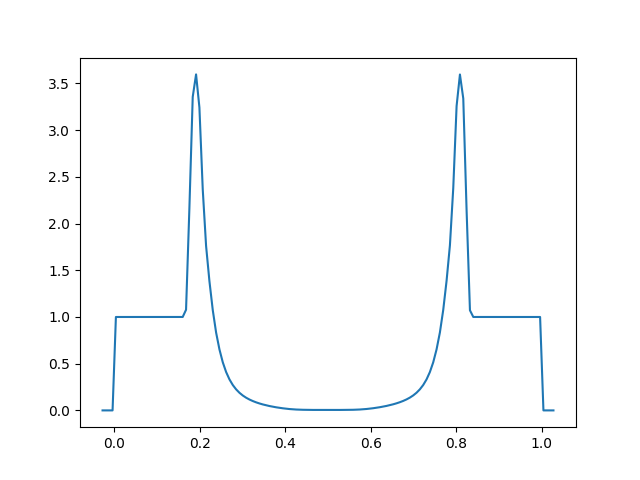
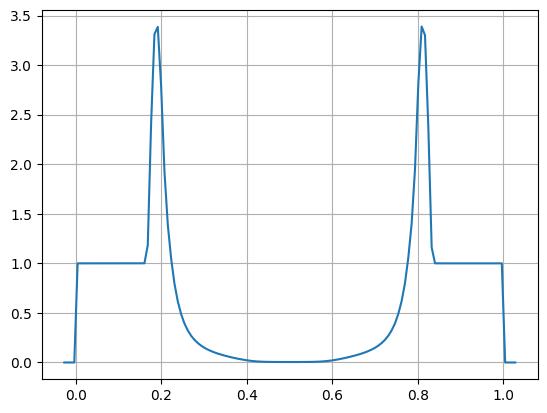
update the "Reading and plotting manually" portion of docs (#304)
this adds how to exclude ghost cells.

diff --git a/docs/source/output.rst b/docs/source/output.rst
@@ -42,20 +42,41 @@ Reading and plotting manually
 pyro output data can be read using the :func:`util.io_pyro.read <pyro.util.io_pyro.read>` method. The following
 sequence (done in a python session) reads in stored data (from the
 compressible Sedov problem) and plots data falling on a line in the x
-direction through the y-center of the domain (note: this will include
-the ghost cells).
+direction through the y-center of the domain.  The return value of
+``read`` is a ``Simulation`` object.
+
 
 .. code-block:: python
 
    import matplotlib.pyplot as plt
    import pyro.util.io_pyro as io
-   sim = io.read("sedov_unsplit_0000.h5")
+
+   sim = io.read("sedov_unsplit_0290.h5")
    dens = sim.cc_data.get_var("density")
-   plt.plot(dens.g.x, dens[:,dens.g.ny//2])
-   plt.show()
+
+   fig, ax = plt.subplots()
+   ax.plot(dens.g.x, dens[:,dens.g.qy//2])
+   ax.grid()
 
 .. image:: manual_plot.png
    :align: center
 
-Note: this includes the ghost cells, by default, seen as the small
-regions of zeros on the left and right.
+.. note::
+
+   This includes the ghost cells, by default, seen as the small
+   regions of zeros on the left and right.  The total number of cells,
+   including ghost cells in the y-direction is ``qy``, which is why
+   we use that in our slice.
+
+If we wanted to exclude the ghost cells, then we could use the ``.v()`` method
+on the density array to exclude the ghost cells, and then manually index ``g.x``
+to just include the valid part of the domain:
+
+.. code:: python
+
+   ax.plot(dens.g.x[g.ilo:g.ihi+1], dens.v()[:, dens.g.ny//2])
+
+.. note::
+
+   In this case, we are using ``ny`` since that is the width of the domain
+   excluding ghost cells.
